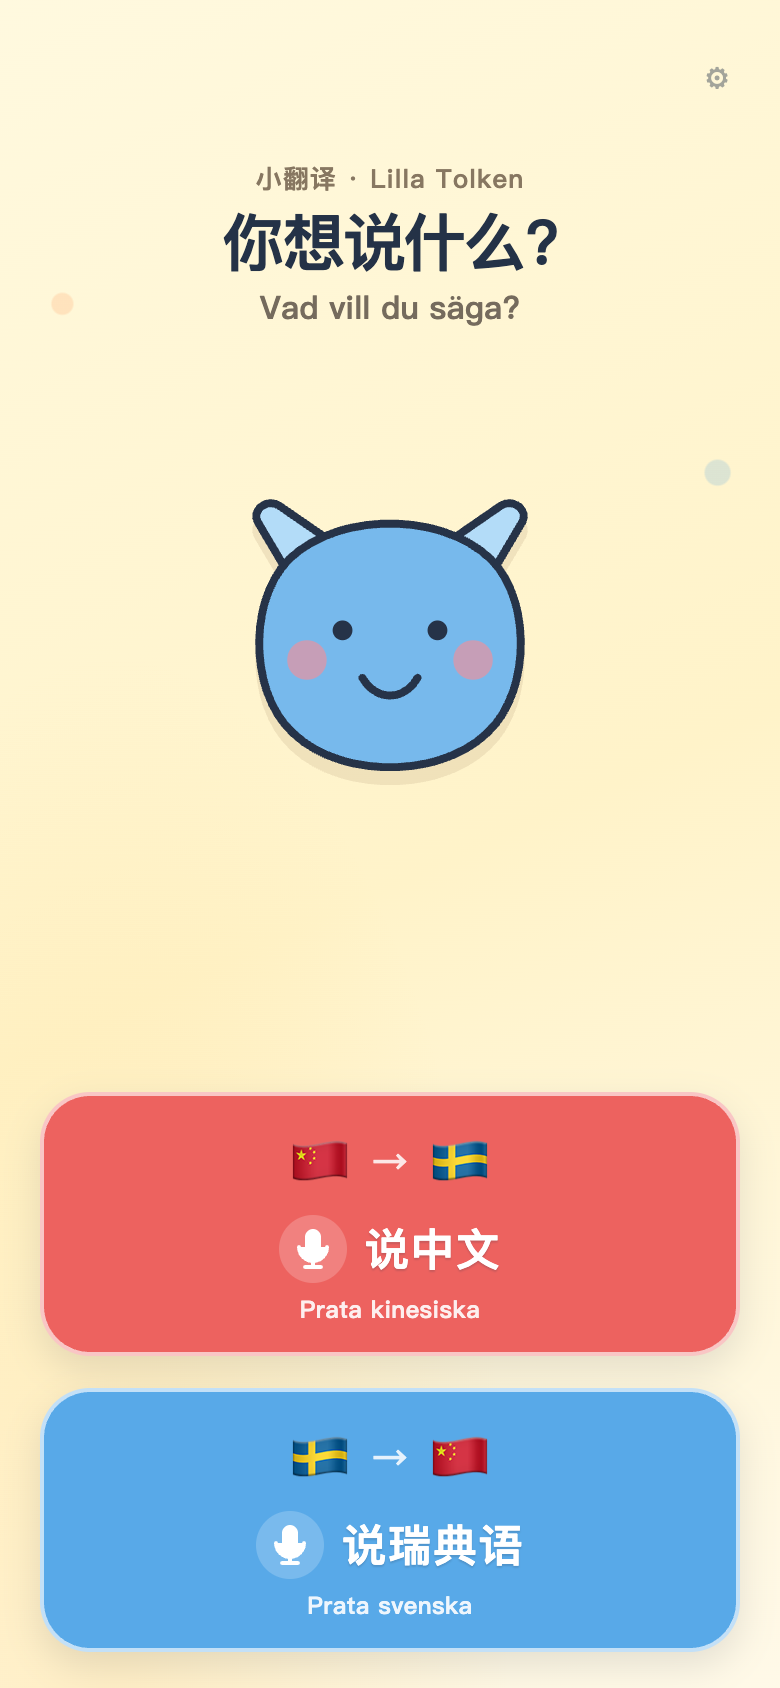
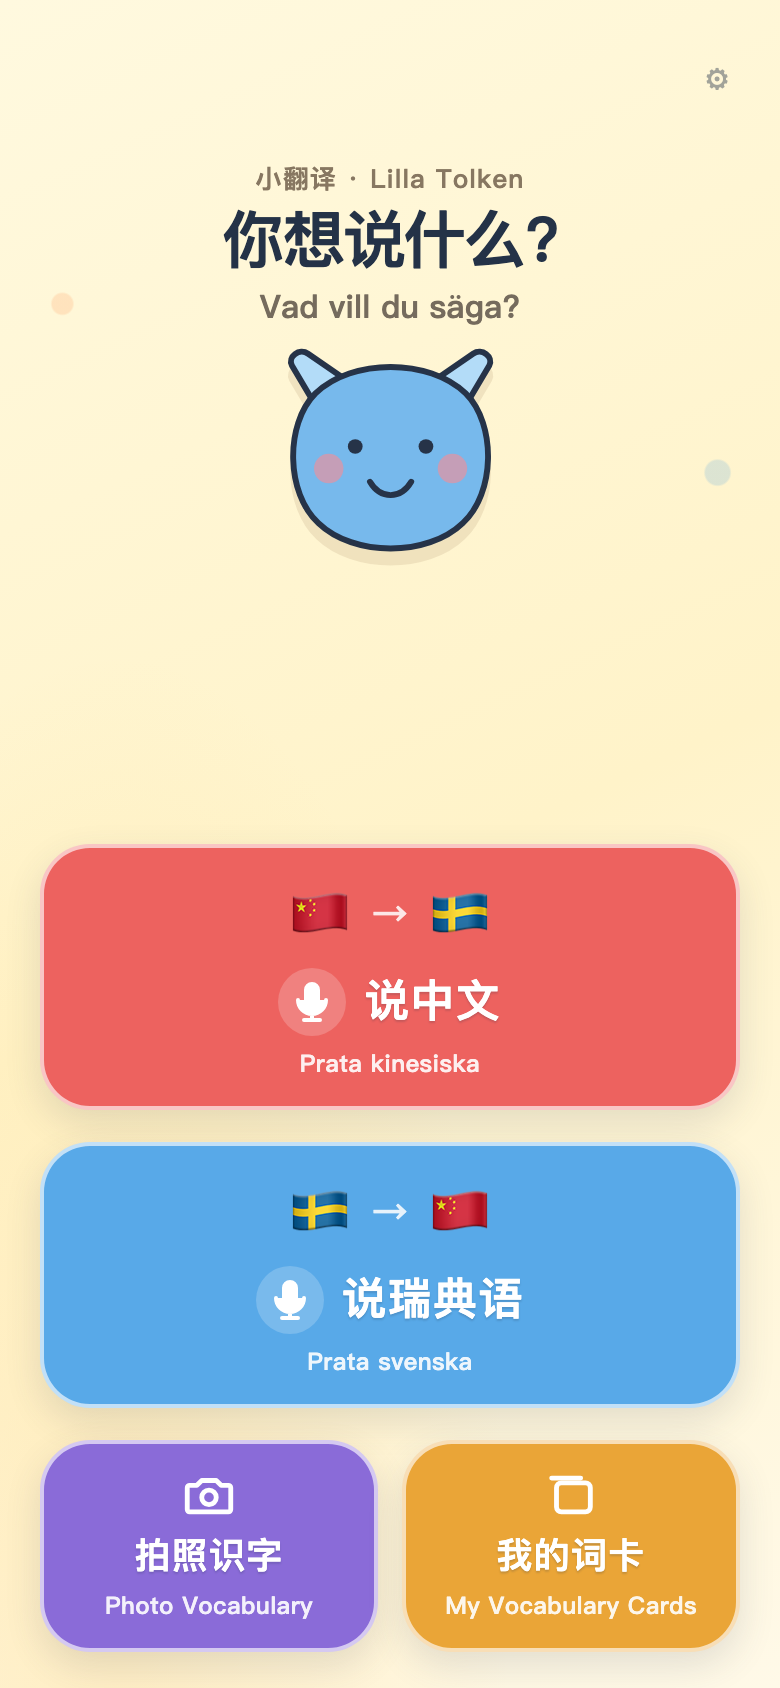
Update the README pictures to the current home and photo-vocabulary screens.
Show the camera step, the card library, and one card beside the spoken conversation.

diff --git a/README.en.md b/README.en.md
@@ -10,14 +10,14 @@ This is an **adult feasibility prototype**. It is for trying the conversation fl
 
 One thing at a time. The main buttons sit in the lower half of the screen, and icons, color, and sound are enough to use them. Chinese and Swedish are shown together, mainly for the adult nearby.
 
-These frames are from one sample conversation. The words come from a built-in example, 「我想去厕所」, not from a real recording. The home screen now also has photo vocabulary and the card library. These frames show only the spoken translation.
+These frames are the current screens. The spoken ones use a built-in example, 「我想去厕所」, not a real recording. The apple and the cup on the cards are drawings made to show the screen.
 
 <table>
   <tr>
     <td align="center" width="33%">
-      <img src="docs/screenshots/01-home.png" alt="Home: two large buttons, speak Chinese or speak Swedish" width="220"><br>
+      <img src="docs/screenshots/01-home.png" alt="Home: speak Chinese, speak Swedish, photo vocabulary, and my cards" width="220"><br>
       <b>Choose a direction</b><br>
-      Speak Chinese, or speak Swedish
+      Speak Chinese, speak Swedish, or take a photo
     </td>
     <td align="center" width="33%">
       <img src="docs/screenshots/02-listening.png" alt="Listening: a 30-second countdown and a stop button" width="220"><br>
@@ -45,6 +45,28 @@ These frames are from one sample conversation. The words come from a built-in ex
       <img src="docs/screenshots/06-result.png" alt="Result: the Chinese meaning and the Swedish sentence, ready to hear again" width="220"><br>
       <b>Say it aloud</b><br>
       Text and voice together
+    </td>
+  </tr>
+</table>
+
+Photo vocabulary is for an object. After it is named, it goes into the card library, and a tap plays it.
+
+<table>
+  <tr>
+    <td align="center" width="33%">
+      <img src="docs/screenshots/09-preview.png" alt="After the photo, check it and identify the object" width="220"><br>
+      <b>Name it</b><br>
+      Photograph an object, not a person
+    </td>
+    <td align="center" width="33%">
+      <img src="docs/screenshots/07-cards.png" alt="My vocabulary cards: categories and two cards" width="220"><br>
+      <b>My cards</b><br>
+      Grouped by category
+    </td>
+    <td align="center" width="33%">
+      <img src="docs/screenshots/08-card.png" alt="One card: apple, with Chinese and Swedish played separately" width="220"><br>
+      <b>Tap to hear</b><br>
+      Chinese and Swedish, separately
     </td>
   </tr>
 </table>

diff --git a/README.md b/README.md
@@ -10,14 +10,14 @@
 
 一次只做一件事。主按钮在屏幕下半部，靠图标、颜色和声音就能操作；中文和瑞典语写在一起，主要给旁边的成人看。
 
-下面是同一条示例对话里的几个画面。内容来自内置的合成例子「我想去厕所」，不是真实录音。首页现在还有拍照识字和我的词卡，这几张图只截了说话翻译。
+下面是现在的界面。说话那几张来自内置的合成例子「我想去厕所」，不是真实录音。词卡上的苹果和杯子是画来展示界面的。
 
 <table>
   <tr>
     <td align="center" width="33%">
-      <img src="docs/screenshots/01-home.png" alt="首页：两个大按钮，说中文或说瑞典语" width="220"><br>
+      <img src="docs/screenshots/01-home.png" alt="首页：说中文、说瑞典语、拍照识字和我的词卡" width="220"><br>
       <b>选一个方向</b><br>
-      说中文，或说瑞典语
+      说中文、说瑞典语，或拍照识字
     </td>
     <td align="center" width="33%">
       <img src="docs/screenshots/02-listening.png" alt="正在听：30 秒倒计时和停止按钮" width="220"><br>
@@ -45,6 +45,28 @@
       <img src="docs/screenshots/06-result.png" alt="结果：中文意思和瑞典语句子，可以再听一遍" width="220"><br>
       <b>说给对方听</b><br>
       文字和声音一起给出
+    </td>
+  </tr>
+</table>
+
+拍照识字拍的是一个东西。认出来以后放进我的词卡，点开就能听。
+
+<table>
+  <tr>
+    <td align="center" width="33%">
+      <img src="docs/screenshots/09-preview.png" alt="拍完以后确认照片，再认一认" width="220"><br>
+      <b>认一认</b><br>
+      拍一个东西，不要拍人
+    </td>
+    <td align="center" width="33%">
+      <img src="docs/screenshots/07-cards.png" alt="我的词卡：分类和两张词卡" width="220"><br>
+      <b>我的词卡</b><br>
+      按类别排开
+    </td>
+    <td align="center" width="33%">
+      <img src="docs/screenshots/08-card.png" alt="一张词卡：苹果，中文和瑞典语可以分别播放" width="220"><br>
+      <b>点一下就听</b><br>
+      中文和瑞典语分开读
     </td>
   </tr>
 </table>
